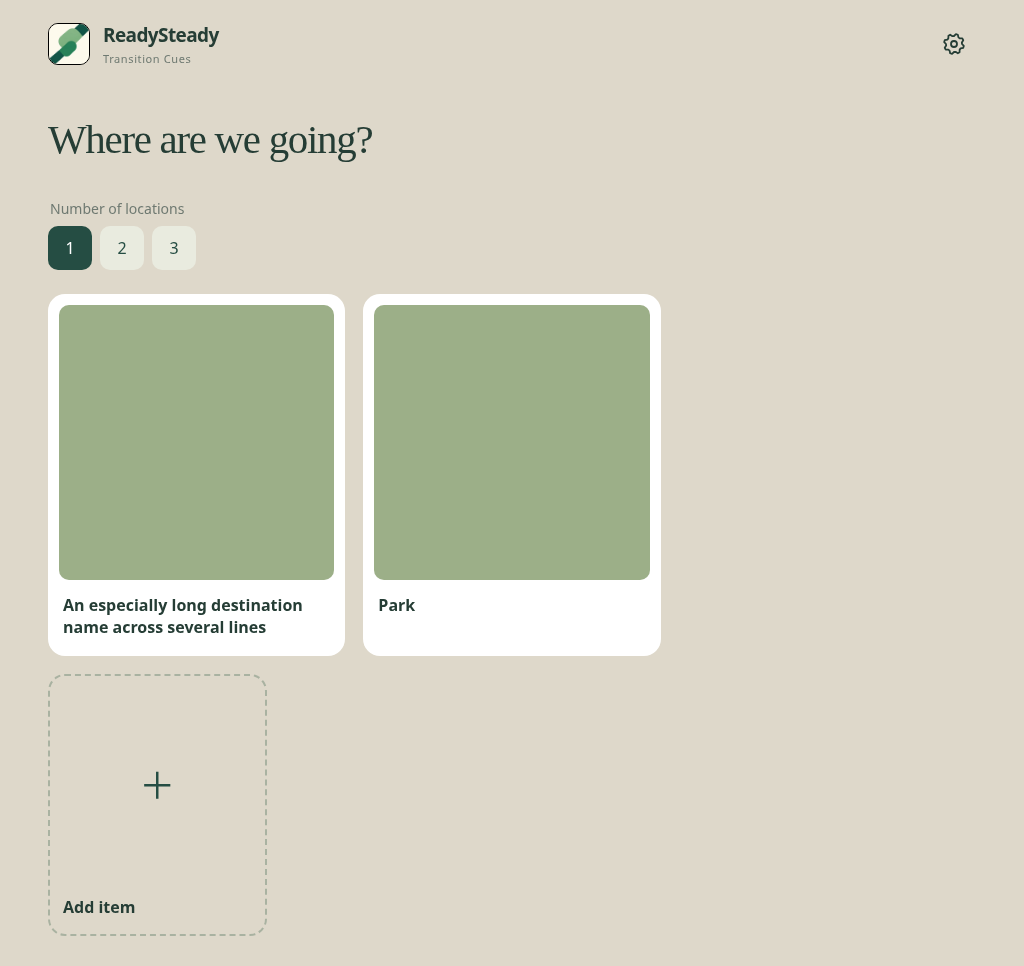
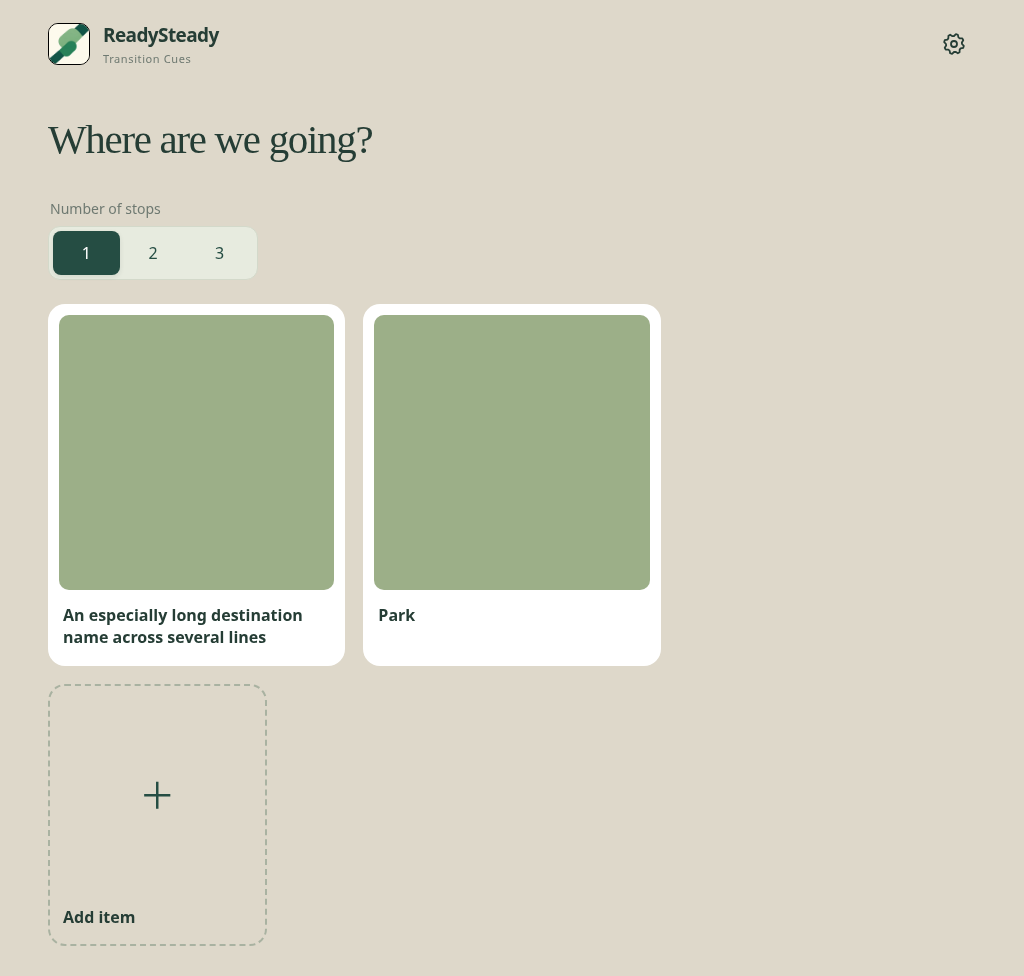
Use a segmented Number of stops control in v1.0.30

diff --git a/transition_cues/transition-cues-web/style.css b/transition_cues/transition-cues-web/style.css
@@ -65,7 +65,7 @@
 .planner-header{border-bottom:0;min-height:88px}.planner-header+#planStep>.wizard-heading{margin-top:16px;margin-bottom:24px}.selection-header{display:block;min-height:0;padding:16px 0 0}.selection-header .plan-progress{display:flex;flex-direction:column;align-items:stretch;gap:0;margin:0;min-height:0}.selection-header .plan-thumbnails{flex:auto;width:100%}.reset-plan{align-self:flex-start;min-height:44px;padding:8px 4px;background:transparent;color:var(--muted);font-size:13px;text-decoration:underline;text-underline-offset:3px}
 @media(max-width:620px){.planner-header{min-height:80px;padding:16px 0 8px}.selection-header{min-height:0;padding:12px 0 0}.planner-header+#planStep>.wizard-heading{margin-top:12px}}
 
-.location-count{border:0;padding:0;margin:0 0 24px}.location-count legend{font-size:14px;margin-bottom:8px;color:var(--muted)}.location-count>div{display:flex;gap:8px}.location-count button{min-width:44px;min-height:44px;border-radius:10px;background:#e9ebdf;color:var(--green)}.location-count button[aria-pressed=true]{background:var(--green);color:white}
+.location-count{border:0;padding:0;margin:0 0 24px}.location-count legend{font-size:14px;margin-bottom:8px;color:var(--muted)}.location-count .stop-segments{display:grid;grid-template-columns:repeat(3,minmax(0,1fr));position:relative;isolation:isolate;width:210px;max-width:100%;gap:0;padding:4px;border:1px solid #d3d9ca;border-radius:12px;background:#e7ebdf}.stop-segments::before{content:"";position:absolute;z-index:-1;left:4px;top:4px;bottom:4px;width:calc((100% - 8px)/3);border-radius:8px;background:var(--green);box-shadow:0 2px 5px #253d351a;transition:transform .18s ease}.stop-segments:has([data-location-count="2"][aria-pressed=true])::before{transform:translateX(100%)}.stop-segments:has([data-location-count="3"][aria-pressed=true])::before{transform:translateX(200%)}.location-count button{min-width:0;min-height:44px;border-radius:8px;background:transparent;color:var(--green)}.location-count button[aria-pressed=true]{background:transparent;color:white}@media(prefers-reduced-motion:reduce){.stop-segments::before{transition:none}}
 .frequent-choices{grid-template-columns:repeat(3,minmax(0,1fr));margin-bottom:18px}.other-choices{grid-template-columns:repeat(4,minmax(0,1fr))}.locked .cue-pair.multi-stop{grid-template-columns:repeat(3,minmax(0,1fr));gap:2vw}.locked .cue-pair.stops-3{grid-template-columns:repeat(4,minmax(0,1fr))}.locked .multi-stop .cue-card figcaption{font-size:clamp(16px,2.8vw,32px)}.locked .multi-stop .cue-card .cue-label{font-size:clamp(14px,2vw,24px)}
 @media(max-width:620px){.other-choices,.frequent-choices{gap:8px}.other-choices .picture,.frequent-choices .picture{padding:5px;border-radius:12px}.other-choices .picture .name,.frequent-choices .picture .name{font-size:12px;padding:8px 1px 3px}.other-choices .picture img,.frequent-choices .picture img{width:100%;height:auto;aspect-ratio:1}.other-choices .check,.frequent-choices .check{width:20px;height:20px;line-height:16px;top:8px;right:8px;font-size:12px}.locked .cue-pair.multi-stop{grid-template-columns:repeat(2,minmax(0,1fr));gap:18px 12px}}
 

diff --git a/transition_cues/transition-cues-web/app.js b/transition_cues/transition-cues-web/app.js
@@ -60,9 +60,14 @@ function renderChoose(focusStep=false) {
   const title=['Where are we going?','How are we travelling','Who is coming along?'][planStep];
   const heading=`<div class="intro wizard-heading"><div><h1 id="planHeading" tabindex="-1">${title}</h1>${planStep===2?'<p class="optional-label">Optional</p>':''}</div></div>`;
   const choices=planStep===2?`${cards('people')}<section class="optional-items" aria-labelledby="itemsHeading"><div class="intro wizard-heading"><div><h2 id="itemsHeading" tabindex="-1">What is coming with us</h2><p class="optional-label">Optional</p><p class="items-guidance">Choose up to 4 items</p></div><small id="itemCount" role="status">${selected.items.length}/${MAX_BRING_ITEMS}</small></div>${cards('items')}</section>`:cards(planStep===0?'places':'transport');
-  frame(`<section id="planStep" data-step="${planStep}" aria-labelledby="planHeading">${heading}${planStep===0?`<fieldset class="location-count"><legend>Number of locations</legend><div>${[1,2,3].map(count=>`<button type="button" data-location-count="${count}" aria-pressed="${locationCount===count}">${count}</button>`).join('')}</div></fieldset>`:''}${choices}</section><div class="journey-bar wizard-actions" ${selected.places?'':'hidden'}><button id="start" class="primary" ${chosenLocations().length===locationCount&&selected.transport?'':'disabled'}>Show the plan <span aria-hidden="true">→</span></button></div>`,'choose',progress);
+  frame(`<section id="planStep" data-step="${planStep}" aria-labelledby="planHeading">${heading}${planStep===0?`<fieldset class="location-count"><legend>Number of stops</legend><div class="stop-segments">${[1,2,3].map(count=>`<button type="button" data-location-count="${count}" aria-pressed="${locationCount===count}">${count}</button>`).join('')}</div></fieldset>`:''}${choices}</section><div class="journey-bar wizard-actions" ${selected.places?'':'hidden'}><button id="start" class="primary" ${chosenLocations().length===locationCount&&selected.transport?'':'disabled'}>Show the plan <span aria-hidden="true">→</span></button></div>`,'choose',progress);
   app.querySelectorAll('[data-add-kind]').forEach(button=>button.onclick=()=>openUpload(button.dataset.addKind));
   app.querySelectorAll('[data-location-count]').forEach(button=>button.onclick=()=>{locationCount=Number(button.dataset.locationCount);selected.locations=chosenLocations().slice(0,locationCount);selected.places=selected.locations[0]||null;renderChoose();app.querySelector(`[data-location-count="${locationCount}"]`).focus({preventScroll:true});});
+
+  app.querySelectorAll('[data-location-count]').forEach((button,index)=>button.onkeydown=e=>{
+    const next={ArrowLeft:(index+2)%3,ArrowRight:(index+1)%3,Home:0,End:2}[e.key];
+    if(next===undefined)return;e.preventDefault();app.querySelectorAll('[data-location-count]')[next].click();
+  });
   app.querySelectorAll('[data-kind]').forEach(button=>button.onclick=()=>{
     const kind=button.dataset.kind, item=state[kind].find(x=>x.id===button.dataset.id);
     if(kind==='places'){

diff --git a/tests/browser_display.py b/tests/browser_display.py
@@ -54,6 +54,14 @@ def run(engine):
                 expect(page.locator('[data-kind="places"]')).to_have_count(2)
                 expect(page.get_by_role('heading',name='Where are we going?',exact=True)).to_be_visible()
                 expect(page.locator('#planStep p')).to_have_count(0)
+                expect(page.get_by_role('group',name='Number of stops',exact=True)).to_be_visible()
+                page.locator('[data-location-count="1"]').press('ArrowRight')
+                expect(page.locator('[data-location-count="2"]')).to_have_attribute('aria-pressed','true')
+                page.locator('[data-location-count="2"]').press('End')
+                expect(page.locator('[data-location-count="3"]')).to_have_attribute('aria-pressed','true')
+                page.locator('[data-location-count="3"]').press('Home')
+                expect(page.locator('[data-location-count="1"]')).to_have_attribute('aria-pressed','true')
+
                 expect(page.locator('.step-number')).to_have_count(0)
                 expect(page.locator('[data-kind="transport"],[data-kind="items"],[data-kind="people"]')).to_have_count(0)
                 expect(page.locator('#start')).not_to_be_visible()

diff --git a/tests/container_smoke.py b/tests/container_smoke.py
@@ -81,5 +81,5 @@ print('PASS: replacement container preserves library and images in /data')
 
 if __name__ == '__main__':
     parser = argparse.ArgumentParser()
-    parser.add_argument('--image', default='transition-cues-ha-check:1.0.29')
+    parser.add_argument('--image', default='transition-cues-ha-check:1.0.30')
     run(parser.parse_args().image)

diff --git a/README.md b/README.md
@@ -24,7 +24,7 @@ No GitHub token is needed for this public repository. You do not need to copy fi
 
 ## Use
 
-Choose one to three locations in visit order, then transport. The location count defaults to one. The first row shows up to three most-used pictures; other choices appear below in rows of four on phones. Usage is saved when a plan is shown and is shared across devices; ties keep the library order. After choosing a place, a grouped summary of selected pictures replaces the logo and settings cog. Tap a thumbnail to edit an earlier choice, or **Reset** below the row to clear all choices and start again. On the final page, optionally select people first and up to four bring-along items beneath them. Tap **Show the plan** when ready. The locked display shows each location as **To**, **Then**, **Then**, alongside transport, followed by selected people as circular portraits and bring-along items in side-by-side groups. The journey works in portrait and landscape. People and items are optional; tap any selected picture again to deselect it. Tap five times within three seconds to finish. Reloading restores the locked journey in that browser.
+Choose one to three locations in visit order, then transport. The **Number of stops** segmented control defaults to one. The first row shows up to three most-used pictures; other choices appear below in rows of four on phones. Usage is saved when a plan is shown and is shared across devices; ties keep the library order. After choosing a place, a grouped summary of selected pictures replaces the logo and settings cog. Tap a thumbnail to edit an earlier choice, or **Reset** below the row to clear all choices and start again. On the final page, optionally select people first and up to four bring-along items beneath them. Tap **Show the plan** when ready. The locked display shows each location as **To**, **Then**, **Then**, alongside transport, followed by selected people as circular portraits and bring-along items in side-by-side groups. The journey works in portrait and landscape. People and items are optional; tap any selected picture again to deselect it. Tap five times within three seconds to finish. Reloading restores the locked journey in that browser.
 
 Open the app on your phone or tablet and tap **Add item** at the end of the relevant Places, Transport, People or Items list. Choose a photo, enter its name and tap **Add to library**. The category is set by the list you opened it from. Use **Crop photo** to adjust the square frame before uploading. The new picture appears in that list without changing your current plan selections.
 

diff --git a/transition_cues/DOCS.md b/transition_cues/DOCS.md
@@ -68,7 +68,7 @@ Crops keep the existing picture's name and category. Images on an already-locked
 
 The planner has three pages. **Where are we going?** shows Places with no subtitle or numbered heading. Selecting the requested number of locations opens **How are we travelling**. Selecting transport opens the combined final page: **Who is coming along?** with People pictures, then **What is coming with us** with item pictures. Both groups are labelled **Optional**, with **Choose up to 4 items** beneath the Items heading. People has no four-person cap. Tap a selected picture again to deselect it.
 
-After the first place is selected, selected-picture thumbnails replace the logo and settings cog in the header. Under **Where are we going?**, choose one, two or three locations (one by default), then tap the locations in visit order. Numbered selection marks show the order. The planner advances to transport once the requested number is selected. Tap a selected location again to remove it while editing; reducing the count keeps the first selections. The locked display labels destinations **To**, **Then**, **Then** and retains their order after reload.
+After the first place is selected, selected-picture thumbnails replace the logo and settings cog in the header. Under **Where are we going?**, use the **Number of stops** segmented control to choose one, two or three stops (one by default), then tap the locations in visit order. Numbered selection marks show the order. The planner advances to transport once the requested number is selected. Tap a selected location again to remove it while editing; reducing the count keeps the first selections. The locked display labels destinations **To**, **Then**, **Then** and retains their order after reload.
 
 Each category starts with up to three frequently used choices; remaining pictures appear in rows of four on phones. Counts are saved in the add-on library when you show a plan, shared across devices and retained across add-on updates. Reloading a locked plan does not count it again. New pictures and ties follow library order.
 

diff --git a/transition_cues/CHANGELOG.md b/transition_cues/CHANGELOG.md
@@ -1,5 +1,9 @@
 # Changelog
 
+## 1.0.30
+
+- Rename Number of locations to Number of stops and use a sliding segmented control for 1–3 stops, with arrow-key and Home/End support.
+
 ## 1.0.29
 
 - Add a category-specific Add item tile at the end of each planner picture list, opening photo upload without category selection.
